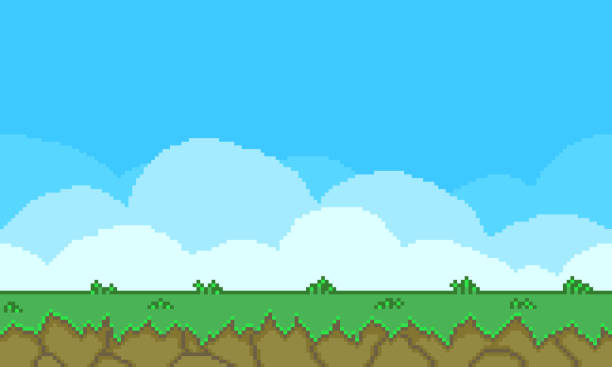
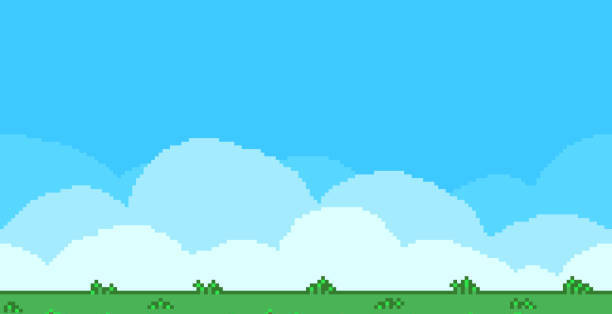
Melhorias criadas
- Nuvens animação ajustada / trava quando mario colide ao tubo. 

- ajuste background

- imagem de game over agora sendo chamado através de função;

diff --git a/assets/script.js b/assets/script.js
@@ -1,44 +1,57 @@
 const mario = document.getElementById("mario");
 const tubo = document.getElementById("tubo");
-const cloud = document.getElementById('cloud');
+const cloud = document.getElementById("cloud");
+var gameOver = document.getElementById("gameOver");
+var gameScreen = document.getElementById("gameScreen");
+
 //Pulo mario adiciionando e removendo a classe
-function mario_jump(){
+function mario_jump() {
   mario.classList.add("jump");
 
- setTimeout(() => {
+  setTimeout(() => {
     mario.classList.remove("jump");
- }, 500);
-};
+  }, 500);
+}
+
+//função adicionar imagem game over
+function addGameOver() {
+    gameOver.style.display = "block"; 
+ 
+}
+
+ 
+
+
+
 
 //adicionando evento de colisão entre "mario" e "tubo"
 const loop = setInterval(() => {
-    const tuboPosition = tubo.offsetLeft;
-    const marioPosition = +window.getComputedStyle(mario).bottom.replace('px','');
+  const tuboPosition = tubo.offsetLeft;
+  const marioPosition = +window
+    .getComputedStyle(mario)
+    .bottom.replace("px", "");
+  const cloudPosition = +window.getComputedStyle(cloud).left.replace("px", "");
+    
+  if (tuboPosition <= 140 && tuboPosition > 0 && marioPosition < 110) {
+    addGameOver();
+
+    tubo.style.animation = "none";
+    tubo.style.left = `${tuboPosition}px`;
+
+    cloud.style.animation = "none";
+    cloud.style.left = `${cloudPosition}px`;
+
+    mario.style.animation = "none";
+    mario.style.bottom = `${marioPosition}px`;
+
+    mario.src = "./assets/marioGifs/marioDeath.png";
+    mario.style.width = "150px";
+    mario.style.marginLeft = "5px";
 
     
 
-    if(tuboPosition <= 140 && tuboPosition > 0 && marioPosition < 110){
-        tubo.style.animation = 'none';
-        tubo.style.left = `${tuboPosition}px`; 
-
-        cloud.style.animation = 'none';
-        cloud.style.left = `${tuboPosition}px`; 
-
-        mario.style.animation = 'none';
-        mario.style.bottom = `${marioPosition}px`;
-
-        mario.src ="./assets/marioGifs/marioDeath.png";
-        mario.style.width = '150px';
-        mario.style.marginLeft = '5px';
-
-        cloud.src ="./assets/marioGifs/gameOver.png"
-        cloud.style.margin = '0 auto';
-        cloud.style.height = '400px'; 
-       cloud.style.left = "25%"
-        
-
-        clearInterval(loop);
-    }
+    clearInterval(loop);
+  }
 }, 10);
 
 document.addEventListener("keydown", mario_jump);

diff --git a/assets/style.css b/assets/style.css
@@ -21,12 +21,25 @@ body {
   position: relative;
   padding: 0;
   overflow: hidden;
-  background-image: url("./marioGifs/background.jpg");
+  /* background-image: url("./marioGifs/background.jpg");
   background-size: cover; 
-  background-position: center; 
+  background-position: center;  */
   border-radius: 20px;
   border: 7px solid black;
 }
+#divbg {
+  width: 100%;
+  height: 100%;
+}
+
+#backgroundGame {
+  width: 100%;
+  height:100%;
+  
+  
+}
+
+
 
 .tubo {
   position: absolute;
@@ -94,9 +107,18 @@ body {
 .cloud {
   margin-top: 10px;
   position: absolute;
-  width: 600px;
-  height: 220px;
+  width: 500px;
+  height: 300px;
   animation: clouds-animation 10s infinite linear;
+}
+
+.gameOver{
+  margin-top: 10px;
+  position: absolute;
+  right:33%;
+  width: 500px;
+  height: 300px;
+  display: none;
 }
 
 @keyframes clouds-animation {

diff --git a/index.html b/index.html
@@ -8,17 +8,23 @@
   </head>
   <body>
     <div class="main">
-      <div class="game_screen">
+      <div class="game_screen" id="gameScreen">
+        
         <img
           src="./assets/marioGifs/clouds.png"
           alt=""
-          style=""
+         
           class="cloud"
           id="cloud"
         />
+        <img src="./assets/marioGifs/gameOver.png"; id="gameOver" class="gameOver"> 
         <img src="./assets/marioGifs/tubo.png" class="tubo" id="tubo" />
         <img src="./assets/marioGifs/marioRun.gif" class="mario" id="mario" />
+       
+        <div id="divbg"><img src="./assets/marioGifs/background.jpg" id="backgroundGame"></div>
+       
         <div class="chao"></div>
+        
       </div>
     </div>
 
